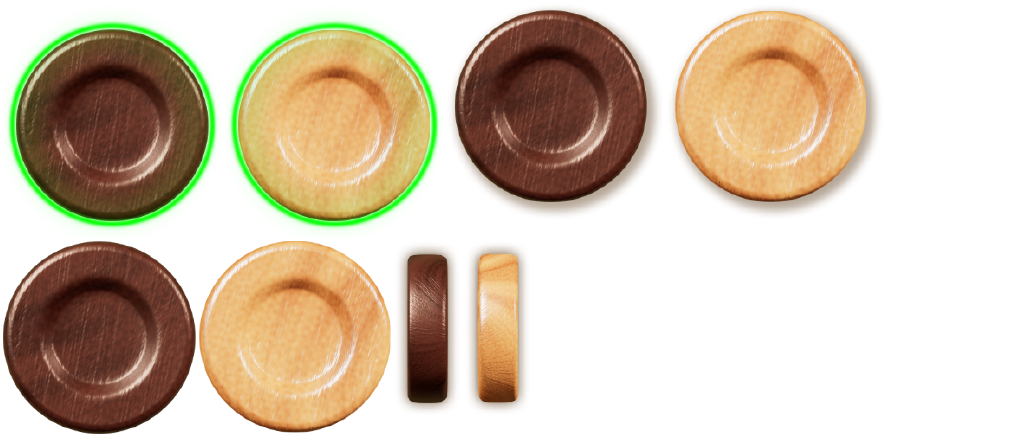
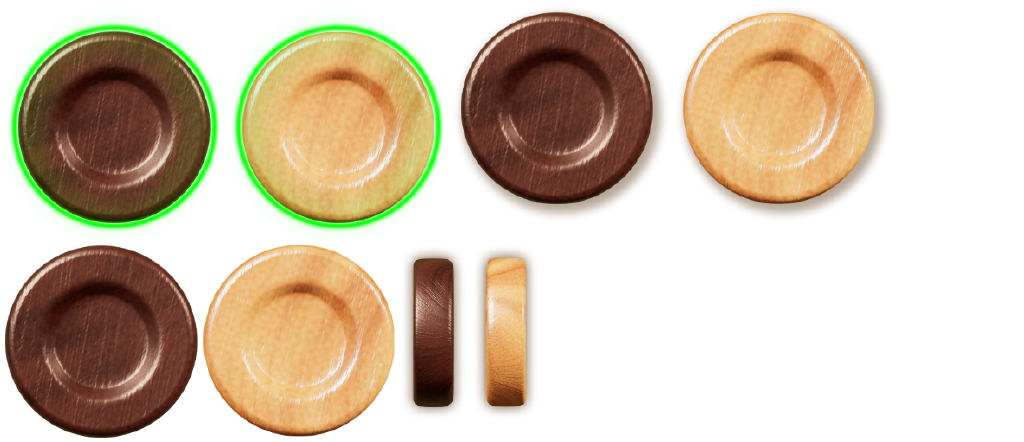
gameplay: layout review fixes

diff --git a/lib/gameplay/board/board_layout.dart b/lib/gameplay/board/board_layout.dart
@@ -21,24 +21,56 @@ class BoardLayout {
     final h = fitWidth ? size.width / BoardCalibration.aspect : size.height;
     final image =
         Rect.fromLTWH((size.width - w) / 2, (size.height - h) / 2, w, h);
-    return BoardLayout._(size, image, sliverAspect);
+    final sx = w / BoardCalibration.width, sy = h / BoardCalibration.height;
+    final pointWidth = BoardCalibration.spacingLeft * sx;
+    final radius = pointWidth * BoardCalibration.checkerRadiusPerPoint;
+    final dieSize = radius * BoardCalibration.dieSizePerRadius;
+    final sliverH =
+        (BoardCalibration.topTrayBottom - BoardCalibration.topTrayTop) *
+            sy *
+            BoardCalibration.sliverHeightPerTray;
+    final sliverSize = Size(sliverH * sliverAspect, sliverH);
+    final trayWidth =
+        (BoardCalibration.trayRight - BoardCalibration.trayLeft) * sx;
+    return BoardLayout._(
+      size: size,
+      imageRect: image,
+      sliverAspect: sliverAspect,
+      sx: sx,
+      sy: sy,
+      pointWidth: pointWidth,
+      pointHeight: BoardCalibration.triangleHeight * sy,
+      checkerRadius: radius,
+      stackStep: radius * 2 * BoardCalibration.stackOverlap,
+      dieSize: dieSize,
+      diceGap: dieSize * BoardCalibration.diceGapPerDie,
+      sliverSize: sliverSize,
+      sliverStep: math.min(
+          sliverSize.width * BoardCalibration.sliverStepPerWidth,
+          trayWidth / 15),
+    );
   }
 
-  BoardLayout._(this.size, this.imageRect, this.sliverAspect)
-      : _sx = imageRect.width / BoardCalibration.width,
-        _sy = imageRect.height / BoardCalibration.height {
-    pointWidth = BoardCalibration.spacingLeft * _sx;
-    pointHeight = BoardCalibration.triangleHeight * _sy;
-    checkerRadius = pointWidth * BoardCalibration.checkerRadiusPerPoint;
-    stackStep = checkerRadius * 2 * BoardCalibration.stackOverlap;
-    dieSize = checkerRadius * BoardCalibration.dieSizePerRadius;
-    diceGap = dieSize * BoardCalibration.diceGapPerDie;
-    final sliverH = _trayHeight * BoardCalibration.sliverHeightPerTray;
-    sliverSize = Size(sliverH * sliverAspect, sliverH);
-    sliverStep = math.min(
-        sliverSize.width * BoardCalibration.sliverStepPerWidth,
-        _trayWidth / 15);
-  }
+  BoardLayout._({
+    required this.size,
+    required this.imageRect,
+    required this.sliverAspect,
+    required double sx,
+    required double sy,
+    required this.pointWidth,
+    required this.pointHeight,
+    required this.checkerRadius,
+    required this.stackStep,
+    required this.dieSize,
+    required this.diceGap,
+    required this.sliverSize,
+    required this.sliverStep,
+  })  : _sx = sx,
+        _sy = sy;
+
+  /// Minimum width of the bar hit band, in logical pixels (a 48 dp
+  /// touch target).
+  static const double minBarHitWidth = 48;
 
   final Size size;
 
@@ -51,31 +83,26 @@ class BoardLayout {
   final double _sx, _sy;
 
   /// Point spacing used for disc sizing (the smaller, left-half spacing).
-  late final double pointWidth;
+  final double pointWidth;
 
   /// Triangle length (base to tip).
-  late final double pointHeight;
+  final double pointHeight;
 
   /// Visible checker disc radius.
-  late final double checkerRadius;
+  final double checkerRadius;
 
   /// Uncompressed centre-to-centre step of a stack.
-  late final double stackStep;
+  final double stackStep;
 
   /// Visible die face edge and the gap between dice.
-  late final double dieSize, diceGap;
+  final double dieSize, diceGap;
 
   /// Visible size of one bear-off sliver and the step between slivers.
-  late final Size sliverSize;
-  late final double sliverStep;
+  final Size sliverSize;
+  final double sliverStep;
 
   double _x(double px) => imageRect.left + px * _sx;
   double _y(double px) => imageRect.top + px * _sy;
-
-  double get _trayHeight =>
-      (BoardCalibration.topTrayBottom - BoardCalibration.topTrayTop) * _sy;
-  double get _trayWidth =>
-      (BoardCalibration.trayRight - BoardCalibration.trayLeft) * _sx;
 
   /// Playing region (frame included, tray strips excluded).
   Rect get boardRect => Rect.fromLTRB(
@@ -217,10 +244,21 @@ class BoardLayout {
         : Rect.fromLTRB(left, barCenterY, right, boardRect.bottom);
   }
 
-  /// The bar band between the halves, split at [barCenterY].
+  /// The bar hit band, split at [barCenterY]: the painted gap between the
+  /// halves, widened about [barX] to at least a checker diameter, and to
+  /// [minBarHitWidth] where that still leaves the innermost columns' stack
+  /// centre lines (with half a radius of margin) to the columns. On phone
+  /// widths the 48 px floor would swallow view point 6's stack (its centre
+  /// is only ~0.057 × image width from the bar), so it is capped there.
+  /// The band overlaps the inner columns' edges and is tested before them.
   Rect barRect(ViewEdge edge) {
-    final left = _centerX(6) + _halfSpacing(6);
-    final right = _centerX(5) - _halfSpacing(5);
+    final painted =
+        (_centerX(5) - _halfSpacing(5)) - (_centerX(6) + _halfSpacing(6));
+    final nearest = math.min(_centerX(5) - barX, barX - _centerX(6));
+    final room = 2 * (nearest - checkerRadius / 2);
+    final width = math.max(
+        math.max(painted, checkerRadius * 2), math.min(minBarHitWidth, room));
+    final left = barX - width / 2, right = barX + width / 2;
     return edge == ViewEdge.top
         ? Rect.fromLTRB(left, boardRect.top, right, barCenterY)
         : Rect.fromLTRB(left, barCenterY, right, boardRect.bottom);
@@ -233,13 +271,14 @@ class BoardLayout {
       : Rect.fromLTRB(
           imageRect.left, boardRect.bottom, imageRect.right, imageRect.bottom);
 
-  /// The region under [p], or null off the board image. The dice area
-  /// wins over the columns it overlaps (it lies between the tips).
+  /// The region under [p], or null off the board image. Precedence: dice
+  /// (it lies between the tips), trays, bar band, then point columns.
   BoardRegion? columnAt(Offset p) {
     if (!imageRect.contains(p)) return null;
     if (diceRect.contains(p)) return const DiceRegion();
-    if (p.dy < boardRect.top) return const TrayRegion(ViewEdge.top);
-    if (p.dy >= boardRect.bottom) return const TrayRegion(ViewEdge.bottom);
+    for (final e in ViewEdge.values) {
+      if (trayHitRect(e).contains(p)) return TrayRegion(e);
+    }
     final top = p.dy < barCenterY;
     final edge = top ? ViewEdge.top : ViewEdge.bottom;
     if (barRect(edge).contains(p)) return BarRegion(edge);

diff --git a/test/gameplay/board/board_layout_test.dart b/test/gameplay/board/board_layout_test.dart
@@ -211,7 +211,11 @@ void main() {
             for (var j = 0; j <= 10; j++) {
               final p = Offset(r.left + (r.width - 1e-6) * i / 10,
                   r.top + (r.height - 1e-6) * j / 10);
-              if (l.diceRect.contains(p)) continue;
+              if (l.diceRect.contains(p) ||
+                  l.barRect(ViewEdge.top).contains(p) ||
+                  l.barRect(ViewEdge.bottom).contains(p)) {
+                continue; // tested before the columns
+              }
               expect(l.columnAt(p), want, reason: 'vp $vp at $p');
             }
           }
@@ -224,6 +228,11 @@ void main() {
             t[1].translate(-inset, 0),
             t[2]
           ]) {
+            // The inner base corners of view points 5/6/17/18 may lie in
+            // the widened bar band; tips never do.
+            final inBar = l.barRect(ViewEdge.top).contains(corner) ||
+                l.barRect(ViewEdge.bottom).contains(corner);
+            if (inBar && corner != t[2]) continue;
             expect(l.columnAt(corner), want, reason: 'triangle of $vp');
           }
           for (var i = 0; i < 15; i++) {
@@ -233,18 +242,55 @@ void main() {
       });
     }
 
-    test('columns do not overlap one another or the bar', () {
-      final l = layoutFor(portrait);
-      final rects = [
-        for (var vp = 0; vp < 24; vp++) l.columnRect(vp),
-        l.barRect(ViewEdge.top),
-        l.barRect(ViewEdge.bottom),
-      ];
-      for (var a = 0; a < rects.length; a++) {
-        for (var b = a + 1; b < rects.length; b++) {
-          final o = rects[a].intersect(rects[b]);
-          expect(o.width <= 1e-9 || o.height <= 1e-9, isTrue,
-              reason: 'rects $a and $b overlap');
+    test('columns do not overlap; the bar band spares stack centres', () {
+      for (final v in viewports) {
+        final l = layoutFor(v);
+        final rects = [for (var vp = 0; vp < 24; vp++) l.columnRect(vp)];
+        for (var a = 0; a < rects.length; a++) {
+          for (var b = a + 1; b < rects.length; b++) {
+            final o = rects[a].intersect(rects[b]);
+            expect(o.width <= 1e-9 || o.height <= 1e-9, isTrue,
+                reason: 'columns $a and $b overlap on $v');
+          }
+        }
+        for (var vp = 0; vp < 24; vp++) {
+          for (var i = 0; i < 15; i++) {
+            expect(l.columnAt(l.checkerCenter(vp, i, 15)), PointRegion(vp),
+                reason: 'stack centre of $vp under the bar band on $v');
+          }
+        }
+      }
+    });
+
+    test('bar band is at least a checker diameter (48 px given room)', () {
+      for (final v in viewports) {
+        final l = layoutFor(v);
+        for (final e in ViewEdge.values) {
+          final w = l.barRect(e).width;
+          expect(w, greaterThanOrEqualTo(l.checkerRadius * 2 - 1e-9));
+          if (v.width >= 1024) {
+            expect(w, greaterThanOrEqualTo(BoardLayout.minBarHitWidth));
+          }
+        }
+      }
+    });
+
+    test('taps across a bar checker\'s whole disc hit the bar', () {
+      for (final v in viewports) {
+        final l = layoutFor(v);
+        final r = l.checkerRadius * 0.999;
+        for (final e in ViewEdge.values) {
+          for (final (i, n) in [(0, 1), (2, 3), (6, 7), (14, 15)]) {
+            final c = l.barSlot(e, i, n);
+            for (var a = -10; a <= 10; a++) {
+              for (var b = -10; b <= 10; b++) {
+                final p = Offset(c.dx + r * a / 10, c.dy + r * b / 10);
+                if ((p - c).distance > r) continue;
+                expect(l.columnAt(p), BarRegion(e),
+                    reason: 'bar slot $i/$n ${e.name} at $p on $v');
+              }
+            }
+          }
         }
       }
     });

diff --git a/lib/gameplay/board/view_transform.dart b/lib/gameplay/board/view_transform.dart
@@ -5,13 +5,16 @@ import 'board_region.dart';
 /// Maps a side's player-relative pip (matrix §1: 24..1 on the board,
 /// 25 the bar, 0 borne off) to where it is drawn, and back.
 ///
-/// The local [viewer] is drawn as the legacy board drew player 1: their
-/// home (pips 1..6) is the bottom-right quarter (view points 0..5), their
-/// pip 24 is top-right (view point 23), and their bar pile and tray are on
-/// the [ViewEdge.bottom]. The opponent's pips are placed through the
-/// variant's [Geometry] ([Direction.opposing]: home top-right;
-/// [Direction.same]: home top-left, start bottom-left). Pass & play flips
-/// the view by making [Side.two] the viewer.
+/// For every variant the local [viewer]'s home (pips 1..6) is the
+/// bottom-right quarter (view points 0..5), their pip 24 is top-right
+/// (view point 23), and their bar pile and tray are on [ViewEdge.bottom].
+/// For hitting games that is the legacy layout of player 1; legacy pinning
+/// and running layouts put player 1's home top-right, so they are drawn
+/// rotated 180° from legacy (an intended deviation, design §4.1). The
+/// opponent's pips are placed through the variant's [Geometry]
+/// ([Direction.opposing]: home top-right; [Direction.same]: home top-left,
+/// start bottom-left). Pass & play flips the view by making [Side.two]
+/// the viewer.
 class ViewTransform {
   const ViewTransform({required this.direction, this.viewer = Side.one});
 

diff --git a/tool/assets/build_game_assets.dart b/tool/assets/build_game_assets.dart
@@ -12,7 +12,8 @@
 /// board can register shadows and size the on-edge bear-off sliver.
 ///
 /// Decoding, cropping, resizing and packing use package:image (a dev
-/// dependency); WebP encoding shells out to `cwebp` (`brew install webp`),
+/// dependency); WebP encoding shells out to `cwebp` (`brew install webp`;
+/// the committed outputs were made with cwebp 1.6.0, libsharpyuv 0.4.2),
 /// since package:image cannot encode WebP. Run from the app root:
 ///
 ///     dart run tool/assets/build_game_assets.dart
@@ -86,7 +87,7 @@ Future<void> _build(Directory tmp) async {
 
   // Table: 4320 × 2700 → 1600 × 1000 (same 1.6 aspect).
   await writeWebp(resize(readPng('$_src/backgrounds/table.png'), 1600, 1000),
-      '$_out/table.webp', ['-q', '85', '-m', '6'], tmp);
+      '$_out/table.webp', ['-q', '85', '-m', '6', '-noalpha'], tmp);
   _measure('table', ['$_src/backgrounds/table.png'], ['$_out/table.webp']);
 
   // Checkers: the three sets are byte-identical, so set 1 serves all.

diff --git a/tool/assets/atlas_builder.dart b/tool/assets/atlas_builder.dart
@@ -26,7 +26,7 @@ class _Packed {
   int x = 0, y = 0;
 }
 
-const _padding = 2;
+const _padding = 4;
 const _visibleThreshold = 127; // alpha ≥ 128
 
 /// Crops, scales and shelf-packs [specs] into [imageName] + [jsonName]

diff --git a/docs/superpowers/perf/2026-10-21-sp3-assets.md b/docs/superpowers/perf/2026-10-21-sp3-assets.md
@@ -1,0 +1,17 @@
+# SP3 game assets — sizes (2026-10-21)
+
+Generated by `tool/assets/build_game_assets.dart` (package:image 4.8.0 for decode/crop/resize/pack; `cwebp` 1.6.0, libsharpyuv 0.4.2, for WebP encoding) into `assets/images/game/` (design §5.5). The outputs are deterministic: a re-run produces byte-identical files.
+
+| Asset | Before bytes | Before RGBA MB | After bytes | After RGBA MB |
+|---|---:|---:|---:|---:|
+| Boards ×3 (2102×2374 PNG → 1200×1355 WebP q90) | 13,434,407 | 57.11 | 385,542 | 18.61 |
+| Table (4320×2700 PNG → 1600×1000 WebP q85, no alpha) | 5,546,969 | 44.49 | 303,816 | 6.10 |
+| Checkers, one set (8 × 400² PNG → 1024×442 lossless atlas) | 529,298 | 4.88 | 269,424 | 1.73 |
+| Dice + cube (24 × 400² PNG → 1024×963 lossless atlas) | 772,883 | 14.65 | 428,410 | 3.76 |
+
+"RGBA MB" is width × height × 4 bytes, the decoded GPU footprint (MiB). A game holds one board (6.2 MB instead of 19.0), the table, and both atlases.
+
+Notes:
+- **Checkers:** the three sets' checker PNGs are byte-identical, so one atlas serves every set. The legacy bundle ships the set three times (1.59 MB).
+- **Atlases:** sprites are cropped to alpha > 0 and packed with 4 px transparent padding. Checker discs are 192 px (source 222), die faces native (about 135), cube faces 192 (source 205).
+- **Legacy assets** stay until legacy deletion, because the online screen still uses them.

diff --git a/docs/superpowers/specs/2026-10-20-sp3-board-and-play-design.md b/docs/superpowers/specs/2026-10-20-sp3-board-and-play-design.md
@@ -176,6 +176,12 @@ On `MatchEnded`, or `GameEnded` for a single game:
 | Dice | Area at 75 % width / mid-height |
 | Cube | Spot on the bar centre-line |
 
+**Declared deviations from legacy geometry:**
+- **Orientation.** For every variant the local viewer's home (pips 1–6) is bottom-right, their pip 24 top-right, and their bar pile and tray at the bottom. That is the legacy hitting layout; the legacy pinning and running layouts (player 1 home top-right) are drawn rotated 180°. Intended.
+- **Stack compression.** Above 7 checkers a pile keeps the span of a 7-pile (step × 6 / (n − 1)); the legacy step × 7 / n still grew to 15. Bar piles compress the same way above 7.
+- **Bar hit band.** Widened about the bar centre to at least a checker diameter, and to 48 px where that leaves the inner columns' stack centres to the columns (capped on phone widths); tested before the columns.
+- **Slivers.** Sized from the atlas's cropped vertical sprite (about 47 × 172), not the legacy 77/202 that squashed the whole 400 px square.
+
 ### 4.2 Components
 - **Retained.** Every component is created once per match; checkers are pooled, 30 per match. Nothing is created per frame or per rebuild.
 - **No collision detection.** No `HasCollisionDetection`, no hitboxes.
